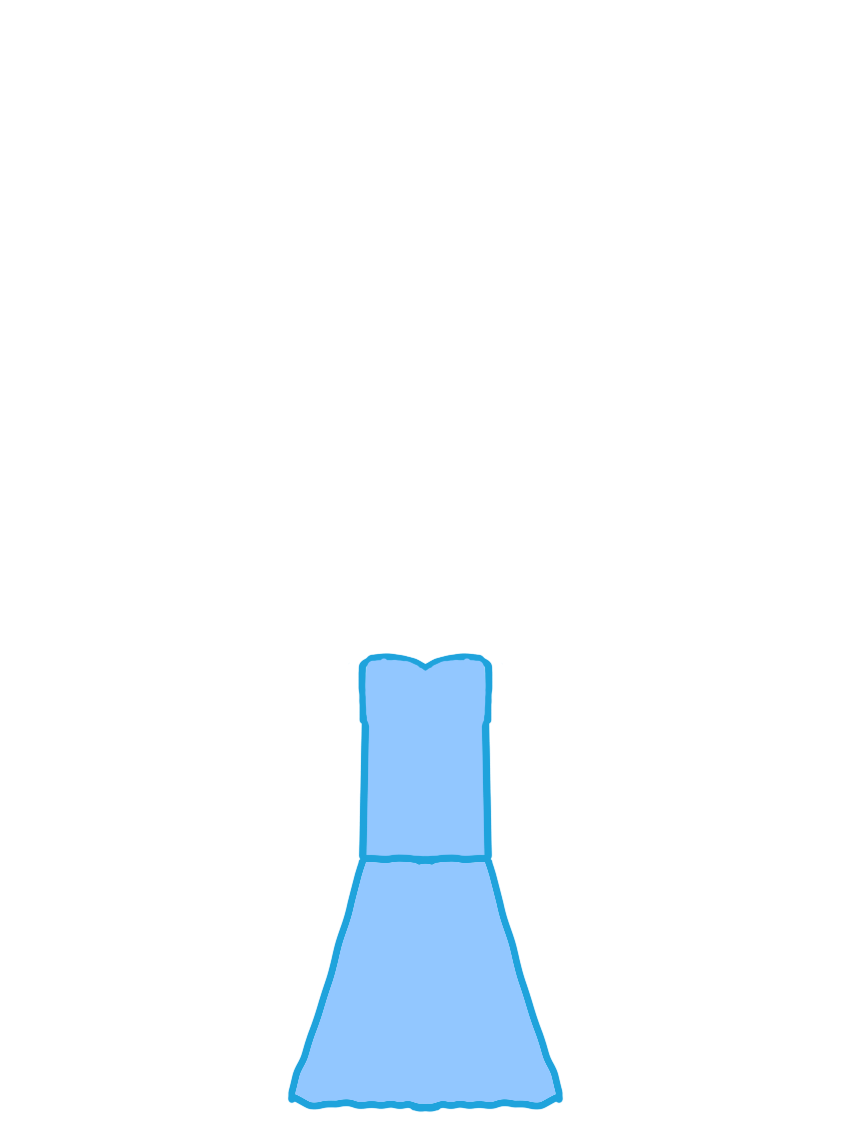
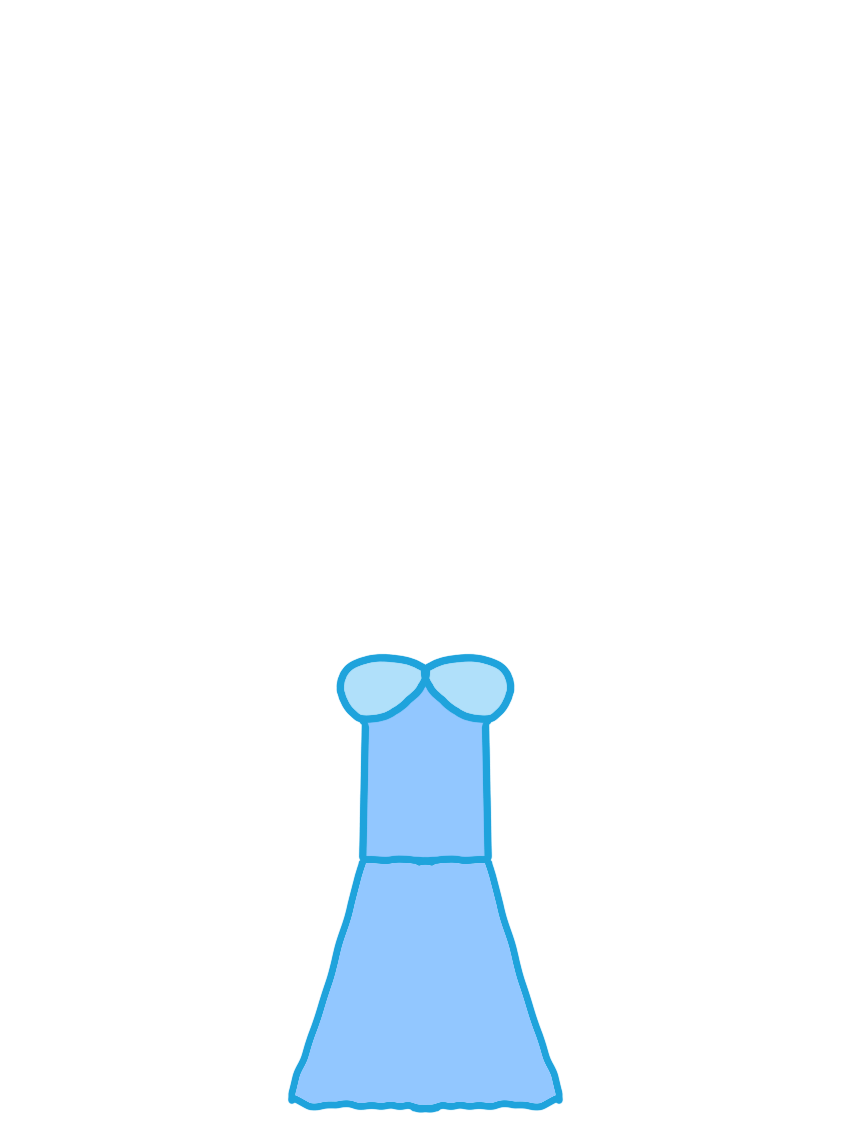
New dress1 with the bust included; bras draw under dresses
dress1.png now has the bust cups in the same picture, so the separate
dress1_over.png is removed (it would draw the cups twice). A whole garment
(bra) is now drawn first on the body's over layer so a dress or stiff top
worn over it covers it. Bump version tags.

Claude-Session: https://claude.ai/code/session_014kRFoiuKUvJEP5Pz3xvP7v

Changed region(s): [[0.3972, 0.5556, 0.611, 0.6481]]

diff --git a/index.html b/index.html
@@ -7,8 +7,8 @@
 	<meta charset="UTF-8" />
 	<meta name="viewport" content="width=device-width, initial-scale=1.0, user-scalable=no" />
 	<title>My Pet Game</title>
-	<link rel="stylesheet" href="pet_style.css?v=20261017p" />
-	<link rel="stylesheet" href="scroll.css?v=20261017p">
+	<link rel="stylesheet" href="pet_style.css?v=20261017q" />
+	<link rel="stylesheet" href="scroll.css?v=20261017q">
 </head>
 
 <body>
@@ -29,22 +29,22 @@
 		<div id="hint" class="card small"></div>
 	</div>
 
-	<script src="hd_canvas.js?v=20261017p"></script>
-	<script src="asset_path_fix.js?v=20261017p"></script>
-	<script src="pet_gender.js?v=20261017p"></script>
-	<script src="pet_art.js?v=20261017p"></script>
-	<script src="mode_manger.js?v=20261017p"></script>
-	<script src="outfit_config.js?v=20261017p"></script>
-	<script src="outfit_system_single_sprite.js?v=20261017p"></script>
-	<script src="outfit_presets.js?v=20261017p"></script>
+	<script src="hd_canvas.js?v=20261017q"></script>
+	<script src="asset_path_fix.js?v=20261017q"></script>
+	<script src="pet_gender.js?v=20261017q"></script>
+	<script src="pet_art.js?v=20261017q"></script>
+	<script src="mode_manger.js?v=20261017q"></script>
+	<script src="outfit_config.js?v=20261017q"></script>
+	<script src="outfit_system_single_sprite.js?v=20261017q"></script>
+	<script src="outfit_presets.js?v=20261017q"></script>
 	<!-- Ragdoll: the skeleton + physics (ported from Computer-pet) -->
-	<script src="ragdoll_config.js?v=20261017p"></script>
-	<script src="ragdoll.js?v=20261017p"></script>
-	<script src="pet_stats.js?v=20261017p"></script>
-	<script src="pet_modes.js?v=20261017p"></script>
-	<script src="canvas_fix.js?v=20261017p"></script>
-	<script src="ui_cleanup.js?v=20261017p"></script>
-	<script src="pet_toys.js?v=20261017p"></script>
+	<script src="ragdoll_config.js?v=20261017q"></script>
+	<script src="ragdoll.js?v=20261017q"></script>
+	<script src="pet_stats.js?v=20261017q"></script>
+	<script src="pet_modes.js?v=20261017q"></script>
+	<script src="canvas_fix.js?v=20261017q"></script>
+	<script src="ui_cleanup.js?v=20261017q"></script>
+	<script src="pet_toys.js?v=20261017q"></script>
 </body>
 
 </html>

diff --git a/pet_script.js b/pet_script.js
@@ -281,9 +281,11 @@
       // A garment's own _over picture (a dress's bust pieces) goes ABOVE that
       // garment; the over pictures of other things (a bra's straps) stay
       // under the stiff top / dress worn over them.
-      const ownsTop = it => it.stiff || it.whole || coversChest(it);
+      // A whole garment (a bra) is drawn first on the body's over layer, so a dress
+      // or stiff top worn over it still covers it.
+      const ownsTop = it => !it.whole && (it.stiff || coversChest(it));
+      D(over.getContext('2d'), 'stand', 0, 0, W, H, i, it => it.whole);
       D(over.getContext('2d'), 'stand', 0, 0, W, H, i, it => !ownsTop(it), 'over');
-      D(overTop.getContext('2d'), 'stand', 0, 0, W, H, i, it => it.whole);
       D(overTop.getContext('2d'), 'stand', 0, 0, W, H, i, ownsTop, 'over');
       const sx = stiff.getContext('2d');
       D(sx, 'stand', 0, 0, W, H, i, it => !it.whole && (it.stiff || (covers(it) && !it.hangs && !it.blows)));
